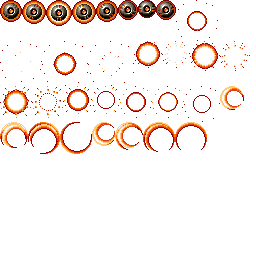
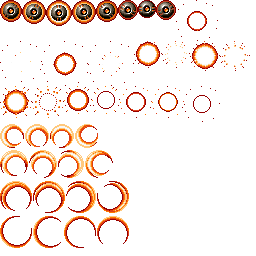
added more detail to unit trails and fixed orange spritesheet

diff --git a/ModulePlayerUnit.cpp b/ModulePlayerUnit.cpp
@@ -207,63 +207,78 @@ ModulePlayerUnit::ModulePlayerUnit()
 	chargingAnim.PushBack({ 176,  0, 42, 41 });
 	chargingAnim.speed = 0.5f;
 	
-	// trails particles
-
-	/*trailsParticles[0].anim.PushBack({ 220,86,24,24 });
-	trailsParticles[0].anim.PushBack({ 220,86,-24,24 });
-	trailsParticles[0].anim.PushBack({ 220,86,24,-24 });
-	trailsParticles[0].anim.PushBack({ 220,86,-24,-24 });
-
-	trailsParticles[0].anim.PushBack({ 92,122,23,24 });
-	trailsParticles[0].anim.PushBack({ 92,122,-23,24 });
-	trailsParticles[0].anim.PushBack({ 92,122,23,-24 });
-	trailsParticles[0].anim.PushBack({ 92,122,-23,-24 });
-	trailsParticles[0].anim.speed = 0.03f;*/
-	//trailsParticles[0].speed = 0.01f;
-
+	// trails animations ----------------------------
 	// trail 1
 	trailsData[0].anim.PushBack({ 0,124,24,24 });
+	trailsData[0].anim.PushBack({ 0,0,0,0 });
 	trailsData[0].anim.PushBack({ 25,124,24,23 });
+	trailsData[0].anim.PushBack({ 0,0,0,0 });
 	trailsData[0].anim.PushBack({ 50,124,24,24 });
+	trailsData[0].anim.PushBack({ 0,0,0,0 });
 	trailsData[0].anim.PushBack({ 75,124,-23,-24 });
+	trailsData[0].anim.PushBack({ 0,0,0,0 });
 	trailsData[0].anim.PushBack({ 0,124,-24,-24 });
+	trailsData[0].anim.PushBack({ 0,0,0,0 });
 	trailsData[0].anim.PushBack({ 25,124,-24,-23 });
+	trailsData[0].anim.PushBack({ 0,0,0,0 });
 	trailsData[0].anim.PushBack({ 50,124,-24,-24 });
+	trailsData[0].anim.PushBack({ 0,0,0,0 });
 	trailsData[0].anim.PushBack({ 75,124,23,24 });
-	trailsData[0].anim.speed = 0.125f;
+	trailsData[0].anim.speed = 0.5f;
 
 	// trail 2
 	trailsData[1].anim.PushBack({ 0,150,28,26 });
+	trailsData[1].anim.PushBack({ 0,0,0,0 });
 	trailsData[1].anim.PushBack({ 29,150,28,28 });
+	trailsData[1].anim.PushBack({ 0,0,0,0 });
 	trailsData[1].anim.PushBack({ 59,150,26,28 });
+	trailsData[1].anim.PushBack({ 0,0,0,0 });
 	trailsData[1].anim.PushBack({ 86,150,-28,-28 });
+	trailsData[1].anim.PushBack({ 0,0,0,0 });
 	trailsData[1].anim.PushBack({ 0,150,-28,-26 });
+	trailsData[1].anim.PushBack({ 0,0,0,0 });
 	trailsData[1].anim.PushBack({ 29,150,-28,-28 });
+	trailsData[1].anim.PushBack({ 0,0,0,0 });
 	trailsData[1].anim.PushBack({ 59,150,-26,-28 });
+	trailsData[1].anim.PushBack({ 0,0,0,0 });
 	trailsData[1].anim.PushBack({ 86,150,28,28 });
-	trailsData[1].anim.speed = 0.125f;
+	trailsData[1].anim.speed = 0.5f;
 
 	// trail 3
 	trailsData[2].anim.PushBack({ 0,181,32,30 });
+	trailsData[2].anim.PushBack({ 0,0,0,0 });
 	trailsData[2].anim.PushBack({ 33,181,32,32 });
+	trailsData[2].anim.PushBack({ 0,0,0,0 });
 	trailsData[2].anim.PushBack({ 66,181,30,32 });
+	trailsData[2].anim.PushBack({ 0,0,0,0 });
 	trailsData[2].anim.PushBack({ 97,181,32,32 });
+	trailsData[2].anim.PushBack({ 0,0,0,0 });
 	trailsData[2].anim.PushBack({ 0,181,-32,-30 });
+	trailsData[2].anim.PushBack({ 0,0,0,0 });
 	trailsData[2].anim.PushBack({ 33,181,-32,-32 });
+	trailsData[2].anim.PushBack({ 0,0,0,0 });
 	trailsData[2].anim.PushBack({ 66,181,-30,-32 });
+	trailsData[2].anim.PushBack({ 0,0,0,0 });
 	trailsData[2].anim.PushBack({ 97,181,-32,-32 });
-	trailsData[2].anim.speed = 0.125f;
+	trailsData[2].anim.speed = 0.5f;
 
 	// trail 4
 	trailsData[3].anim.PushBack({ 0,216,32,32 });
+	trailsData[3].anim.PushBack({ 0,0,0,0 });
 	trailsData[3].anim.PushBack({ 33,216,28,32 });
+	trailsData[3].anim.PushBack({ 0,0,0,0 });
 	trailsData[3].anim.PushBack({ 64,216,32,32 });
+	trailsData[3].anim.PushBack({ 0,0,0,0 });
 	trailsData[3].anim.PushBack({ 98,216,32,28 });
+	trailsData[3].anim.PushBack({ 0,0,0,0 });
 	trailsData[3].anim.PushBack({ 0,216,-32,-32 });
+	trailsData[3].anim.PushBack({ 0,0,0,0 });
 	trailsData[3].anim.PushBack({ 33,216,-28,-32 });
+	trailsData[3].anim.PushBack({ 0,0,0,0 });
 	trailsData[3].anim.PushBack({ 64,216,-32,-32 });
+	trailsData[3].anim.PushBack({ 0,0,0,0 });
 	trailsData[3].anim.PushBack({ 98,216,-32,-28 });
-	trailsData[3].anim.speed = 0.125f;
+	trailsData[3].anim.speed = 0.5f;
 	
 
 
@@ -563,14 +578,31 @@ update_status ModulePlayerUnit::PreUpdate()
 		trailsData[0].distance = trailsData[0].currentPos.DistanceTo(trailsData[0].targetPos);
 
 		int targetDistance = 0;
+		iPoint destinationPosition = { 0,0 };
 
-		if (this_state == actualState::POSITIONING) targetDistance = 0;
-		else targetDistance = 20;
+		if (this_state == actualState::POSITIONING)
+		{
+			targetDistance = 0;
+			destinationPosition.x = App->player[playerIndex]->position.x; //+ 16; // 16 half player width
+			destinationPosition.y = App->player[playerIndex]->position.y; // -8; //
+
+			if (trailsData[0].distance <= 10 && !trailsData[0].returned)
+			{
+				numTrailsPrint--;
+				trailsData[0].returned = true;
+			}
+		}
+		else
+		{
+			targetDistance = 20;
+			destinationPosition.x = playerPos.x;
+			destinationPosition.y = playerPos.y;
+		}
 
 		if (trailsData[0].distance >= targetDistance)
 		{
-			trailsData[0].tx = playerPos.x - trailsData[0].currentPos.x;
-			trailsData[0].ty = playerPos.y - trailsData[0].currentPos.y;
+			trailsData[0].tx = destinationPosition.x - trailsData[0].currentPos.x;
+			trailsData[0].ty = destinationPosition.y - trailsData[0].currentPos.y;
 
 			trailsData[0].velX = (trailsData[0].tx / trailsData[0].distance * trailsData[0].speed);
 			trailsData[0].velY = (trailsData[0].ty / trailsData[0].distance * trailsData[0].speed);
@@ -591,8 +623,15 @@ update_status ModulePlayerUnit::PreUpdate()
 			trailsData[i].targetPos = trailsData[i - 1].currentPos;
 
 			//trailsData[i].currentPos.x += 1; //compensate player default speed x
+			
 
 			trailsData[i].distance = trailsData[i].currentPos.DistanceTo(trailsData[i - 1].currentPos);
+
+			if (trailsData[i].distance <= 10 && !trailsData[i].returned && this_state == actualState::POSITIONING)
+			{
+				numTrailsPrint--;
+				trailsData[i].returned = true;
+			}
 
 			if (trailsData[i].distance >= targetDistance)
 			{
@@ -609,6 +648,7 @@ update_status ModulePlayerUnit::PreUpdate()
 				trailsData[i].currentPos.y += trailsData[i].tPosY;
 
 			}
+			
 		}
 
 	}
@@ -643,6 +683,10 @@ update_status ModulePlayerUnit::Update()
 				this_state = actualState::LINKED;
 				increaseVectorX = 0;
 				increaseVectorY = 0;
+
+				//and re assign trails bools
+				for (int i = 0; i < NUM_TRAILS; ++i)
+					trailsData[i].returned = false;
 			}
 		}
 		
@@ -848,7 +892,8 @@ update_status ModulePlayerUnit::Update()
 
 	if (this_state != actualState::LINKED)
 	{
-		for (int i = 0; i < NUM_TRAILS; ++i)
+		for (int i = numTrailsPrint; i >= 0; --i)
+		//for (int i = 0; i < numTrailsPrint; ++i)
 		{
 			Animation* current_trailAnim;
 			current_trailAnim = &trailsData[i].anim;
@@ -876,6 +921,8 @@ void ModulePlayerUnit::boomerangShot(float charge)
 
 	start_boomerang_time = SDL_GetTicks();
 	start_next_trail_time = SDL_GetTicks();
+
+	numTrailsPrint = 4;
 
 	//links first trail to unit position
 	//trailsData[0].targetPos.x = playerPos.x;

diff --git a/ModulePlayerUnit.h b/ModulePlayerUnit.h
@@ -119,6 +119,7 @@ public:
 	float trailsDistance[2];
 	fPoint trailsPosition[2];
 
+	int numTrailsPrint;
 	//
 
 	struct trailsInfo
@@ -139,6 +140,7 @@ public:
 		int pivotsY[8];
 		float tPosX;
 		float tPosY;
+		bool returned = false;
 	};
 
 	trailsInfo trailsData[NUM_TRAILS];
